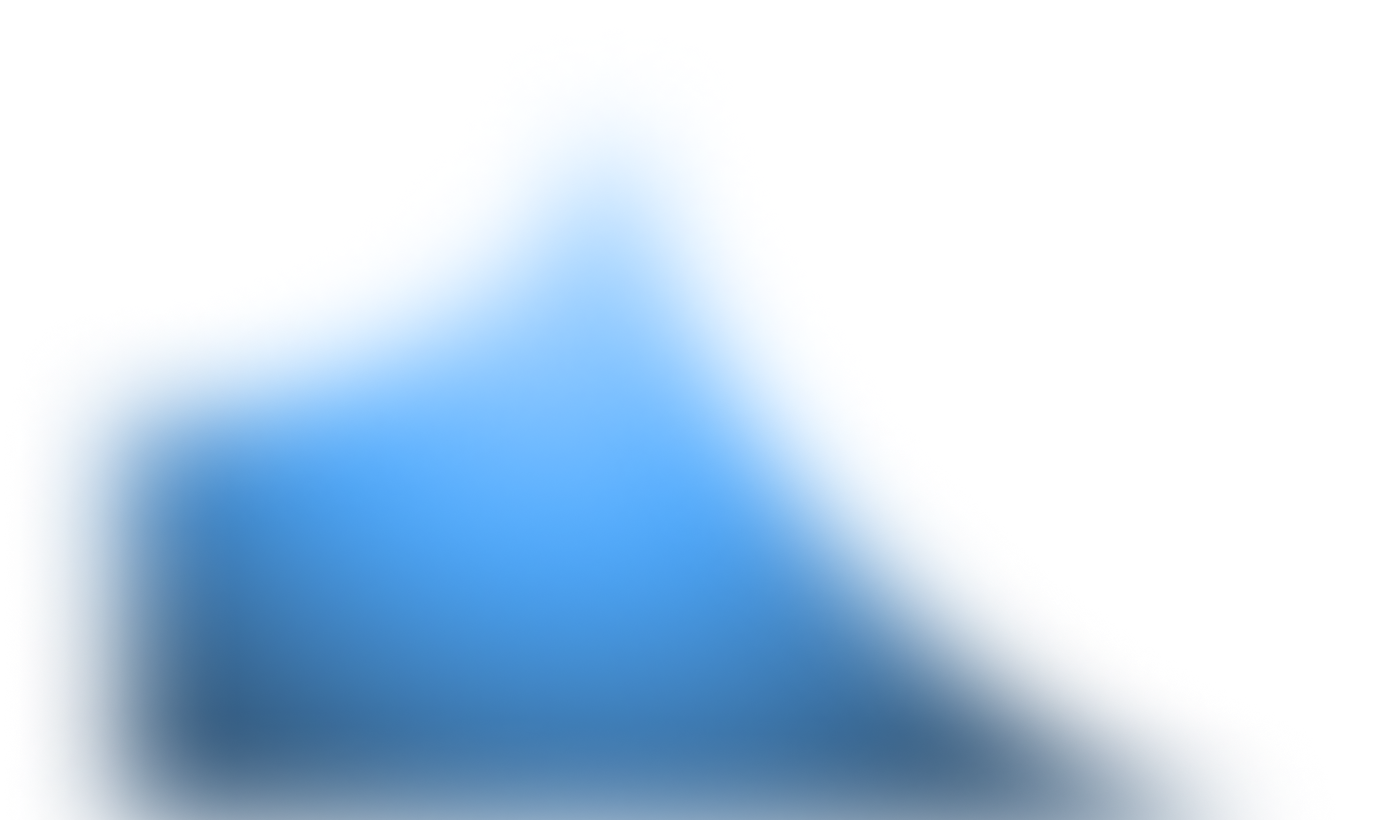
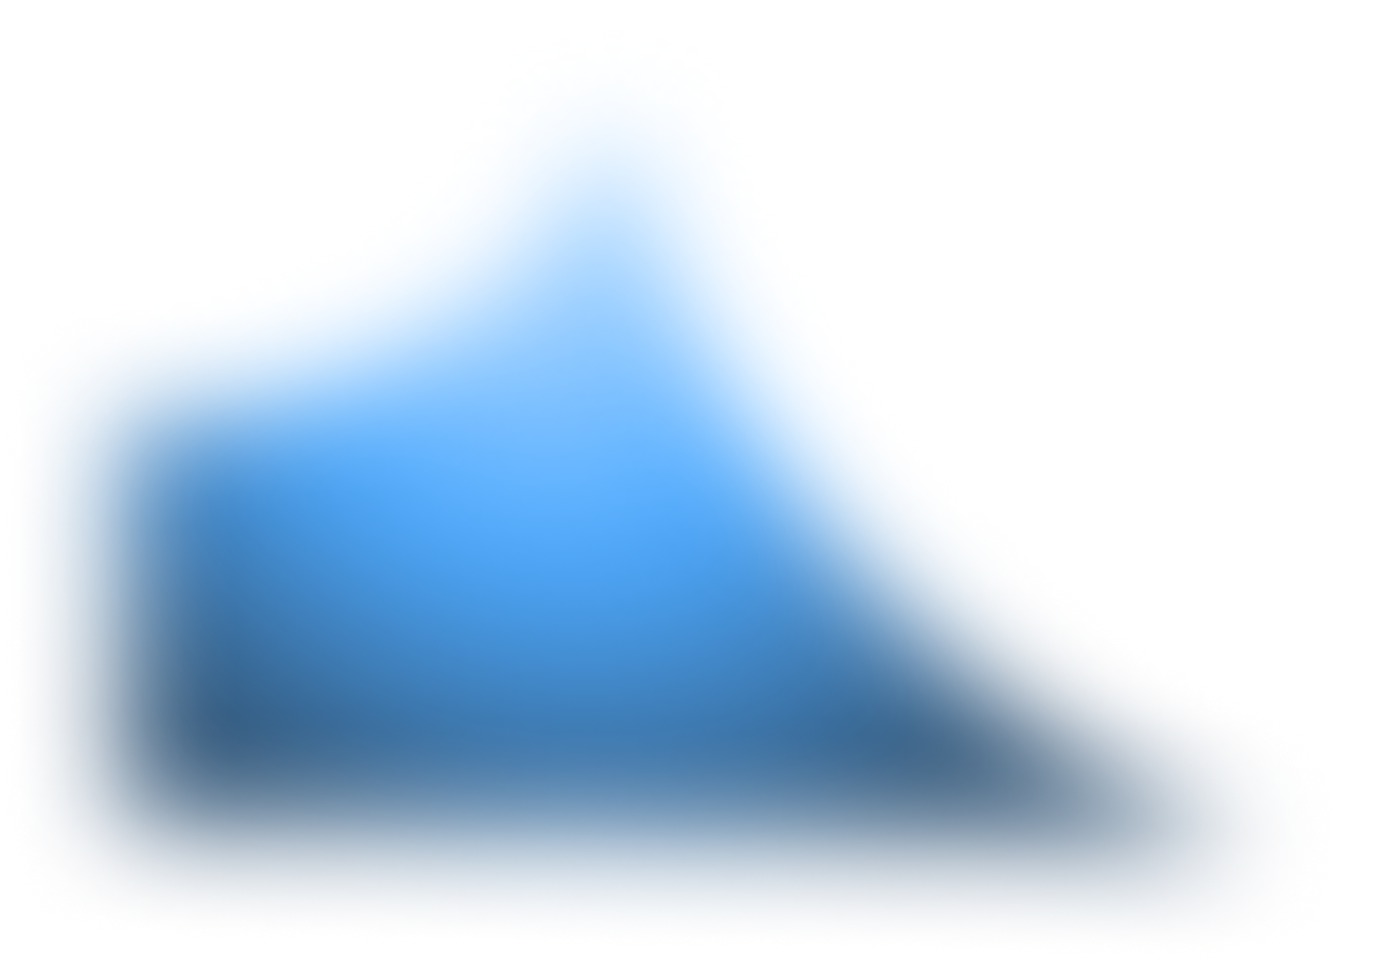
test

diff --git a/app/css/style.css b/app/css/style.css
@@ -691,7 +691,7 @@ input[type=number] {
   position: absolute;
   top: 1.2rem;
   left: 0;
-  z-index: 5;
+  z-index: 10;
   width: 100%;
 }
 @media (min-width: 1200px) {
@@ -950,26 +950,80 @@ input[type=number] {
   background-position: center;
   background-size: auto 100%;
 }
-.hero__bg {
+.hero__blobs {
   position: absolute;
-  top: 0;
-  left: 0;
+  top: 50%;
+  left: 50%;
+  -webkit-transform: translate(-50%, -50%);
+      -ms-transform: translate(-50%, -50%);
+          transform: translate(-50%, -50%);
   width: 100%;
   height: 100%;
   overflow: hidden;
 }
-.hero__bg img {
+.hero__blob {
   position: absolute;
 }
-.hero__bg img:nth-child(1) {
-  position: absolute;
+.hero__blob img {
+  width: auto;
+  height: auto;
+}
+@media (min-width: 1200px) {
+  .hero__blob img {
+    width: 100%;
+  }
+}
+.hero__blob:nth-child(1) {
+  z-index: 3;
+  left: -30rem;
+  left: 0;
   bottom: 0;
-  left: -15rem;
-  -webkit-animation: blob-1 5s linear infinite alternate;
-          animation: blob-1 5s linear infinite alternate;
+  -webkit-transform: translate(-12.7%, 15%);
+      -ms-transform: translate(-12.7%, 15%);
+          transform: translate(-12.7%, 15%);
+  -webkit-animation: blob-1 10s linear infinite alternate;
+          animation: blob-1 10s linear infinite alternate;
+}
+@media (min-width: 1200px) {
+  .hero__blob:nth-child(1) {
+    left: 0;
+    width: 95%;
+  }
+}
+.hero__blob:nth-child(2) {
+  z-index: 2;
+  right: -20rem;
+  bottom: 0;
+  -webkit-transform: translate(13.22%, 24.55%);
+      -ms-transform: translate(13.22%, 24.55%);
+          transform: translate(13.22%, 24.55%);
+  -webkit-animation: blob-2 10s linear infinite alternate;
+          animation: blob-2 10s linear infinite alternate;
+}
+@media (min-width: 1200px) {
+  .hero__blob:nth-child(2) {
+    right: 0;
+    width: 85%;
+  }
+}
+.hero__blob:nth-child(3) {
+  right: 0;
+  top: -20rem;
+  -webkit-transform: translate(14.15%, -25.3%);
+      -ms-transform: translate(14.15%, -25.3%);
+          transform: translate(14.15%, -25.3%);
+  -webkit-animation: blob-3 10s linear infinite alternate;
+          animation: blob-3 10s linear infinite alternate;
+}
+@media (min-width: 1200px) {
+  .hero__blob:nth-child(3) {
+    top: 0;
+    width: 125%;
+  }
 }
 .hero__wrapper {
   position: relative;
+  z-index: 5;
   display: -webkit-box;
   display: -ms-flexbox;
   display: flex;
@@ -1029,15 +1083,39 @@ input[type=number] {
 
 @-webkit-keyframes blob-1 {
   100% {
-    -webkit-transform: translateX(10rem);
-            transform: translateX(10rem);
+    -webkit-transform: translate(0, 15%);
+            transform: translate(0, 15%);
   }
 }
 
 @keyframes blob-1 {
   100% {
-    -webkit-transform: translateX(10rem);
-            transform: translateX(10rem);
+    -webkit-transform: translate(0, 15%);
+            transform: translate(0, 15%);
+  }
+}
+@-webkit-keyframes blob-2 {
+  100% {
+    -webkit-transform: translate(0, 0);
+            transform: translate(0, 0);
+  }
+}
+@keyframes blob-2 {
+  100% {
+    -webkit-transform: translate(0, 0);
+            transform: translate(0, 0);
+  }
+}
+@-webkit-keyframes blob-3 {
+  100% {
+    -webkit-transform: translate(14.15%, -12%);
+            transform: translate(14.15%, -12%);
+  }
+}
+@keyframes blob-3 {
+  100% {
+    -webkit-transform: translate(14.15%, -12%);
+            transform: translate(14.15%, -12%);
   }
 }
 .join {

diff --git a/app/scss/blocks/_hero.scss b/app/scss/blocks/_hero.scss
@@ -5,28 +5,75 @@
     background-position: center;
     background-size: auto 100%;
 
-    &__bg {
+    &__blobs {
         position: absolute;
-        top: 0;
-        left: 0;
+        top: 50%;
+        left: 50%;
+        transform: translate(-50%, -50%);
         width: 100%;
         height: 100%;
         overflow: hidden;
+    }
+
+    &__blob {
+        position: absolute;
 
         img {
-            position: absolute;
+            width: auto;
+            height: auto;
 
-            &:nth-child(1) {
-                position: absolute;
-                bottom: 0;
-                left: -15rem;
-                animation: blob-1 5s linear infinite alternate;
+            @media (min-width: 1200px) {
+                width: 100%;
             }
         }
+
+        &:nth-child(1) {
+            // display: none;
+            z-index: 3;
+            left: -30rem;
+            left: 0;
+            bottom: 0;
+            transform: translate(-12.7%, 15%);
+            animation: blob-1 10s linear infinite alternate;
+
+            @media (min-width: 1200px) {
+                left: 0;
+                width: 95%;
+            }
+        }
+
+        &:nth-child(2) {
+            // display: none;
+            z-index: 2;
+            right: -20rem;
+            bottom: 0;
+            transform: translate(13.22%, 24.55%);
+            animation: blob-2 10s linear infinite alternate;
+
+            @media (min-width: 1200px) {
+                right: 0;
+                width: 85%;
+            }
+        }
+
+        &:nth-child(3) {
+            // display: none;
+            right: 0;
+            top: -20rem;
+            transform: translate(14.15%, -25.3%);
+            animation: blob-3 10s linear infinite alternate;
+
+            @media (min-width: 1200px) {
+                top: 0;
+                width: 125%;
+            }
+        }
+
     }
 
     &__wrapper {
         position: relative;
+        z-index: 5;
         display: flex;
         flex-direction: column;
         align-items: center;
@@ -79,6 +126,21 @@
 
 @keyframes blob-1 {
     100% {
-        transform: translateX(10rem);
+        // transform: translate(0, 0);
+        transform: translate(0, 15%);
+    }
+}
+
+@keyframes blob-2 {
+    100% {
+        transform: translate(0, 0);
+    }
+}
+
+@keyframes blob-3 {
+    100% {
+        // transform: translate(0, 0);
+        // transform: translate(14.15%, 0);
+        transform: translate(14.15%, -12%);
     }
 }

diff --git a/app/main.html b/app/main.html
@@ -108,8 +108,16 @@
             <section class="hero">
             <!-- <section class="hero" style="background-image:url('images/hero-bg.png')"> -->
                 <div class="container">
-                    <div class="hero__bg">
-                        <img src="images/hero-blob-1.png" alt="">
+                    <div class="hero__blobs">
+                        <div class="hero__blob">
+                            <img src="images/hero-blob-1.png" alt="">
+                        </div>
+                        <div class="hero__blob">
+                            <img src="images/hero-blob-2.png" alt="">
+                        </div>
+                        <div class="hero__blob">
+                            <img src="images/hero-blob-3.png" alt="">
+                        </div>
                     </div>
                     <div class="hero__wrapper">
                         <div class="hero__content">
@@ -567,8 +575,10 @@
                                                 </p>
                                             </div>
                                             <div class="card-hover">
-                                                <img src="images/card/card-hover-img-4.png" alt="Flexible data analytics system and indicators" width="408"
+                                                <div class="card-hover__img">
+                                                    <img src="images/card/card-hover-img-4.png" alt="Flexible data analytics system and indicators" width="408"
                                                     height="380" loading="lazy">
+                                                </div>
                                             </div>
                                         </article>
                                     </div>

diff --git a/app/js/main.js b/app/js/main.js
@@ -225,10 +225,9 @@ function setSolutionAnimation(duration, delay) {
 
             copyWrapper.querySelectorAll('.js_solution_item').forEach((item, i) => {
 
-                d = d + delay + generateRandomNumber(0, delay);
-
                 item.style.animation = `solution-animation linear ${duration}ms ${d}ms`;
                 item.style.left = `${generateRandomNumber(0, solutionWrapper.offsetWidth - item.offsetWidth)}px`;
+                d = d + delay + generateRandomNumber(0, delay);
 
                 if (i === (items.length - 1)) {
 
@@ -236,13 +235,10 @@ function setSolutionAnimation(duration, delay) {
 
                         d = 0;
 
-                        // animateItems();
-                        requestAnimationFrame(animateItems);
-
-                        // setTimeout(() => {
-                        //     animateItems();
-                        //     // requestAnimationFrame(animateItems);
-                        // }, delay);
+                        setTimeout(() => {
+                            // animateItems();
+                            requestAnimationFrame(animateItems);
+                        }, d + delay + generateRandomNumber(0, delay));
 
                     });
 

diff --git a/app/scss/blocks/_header.scss b/app/scss/blocks/_header.scss
@@ -2,7 +2,7 @@
     position: absolute;
     top: 1.2rem;
     left: 0;
-    z-index: 5;
+    z-index: 10;
     width: 100%;
 
     @media (min-width: 1200px) {
